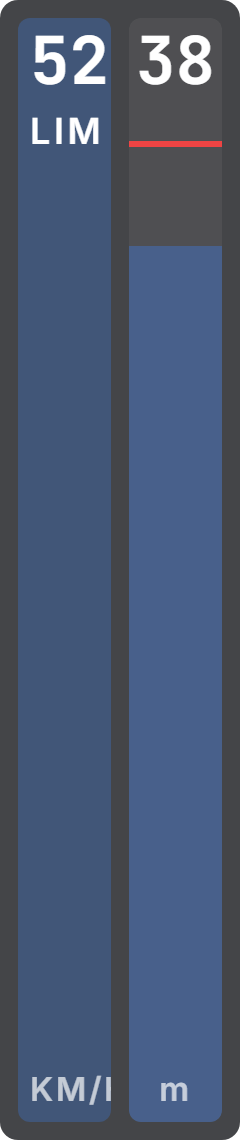
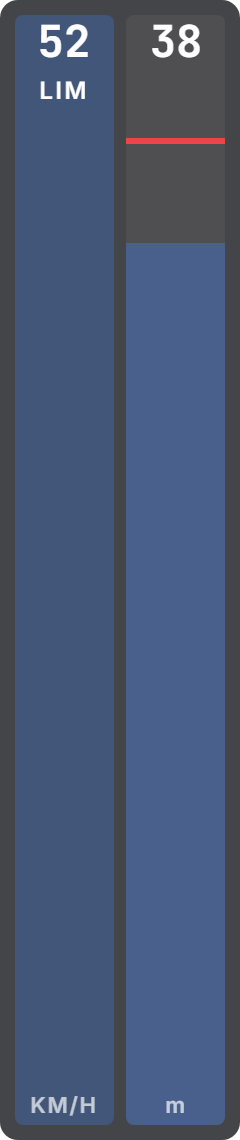
fix(site): pit-line stories pass the widget scale so text fits the columns

diff --git a/src/widgets/pit-line/PitLineWidget.stories.tsx b/src/widgets/pit-line/PitLineWidget.stories.tsx
@@ -7,6 +7,7 @@ import {
   SAMPLE_PIT_IN_PCT,
 } from '@features/preview/sample-track';
 import { PitLineWidget } from './PitLineWidget';
+import { PIT_LINE_MANIFEST } from './manifest';
 import {
   defineWidgetStories,
   previewScenario,
@@ -27,9 +28,19 @@ interface StoryArgs {
   leavingBox?: boolean;
 }
 
-// The limit plate hangs above the frame, as `overflowVisible` lets it in the
-// overlay.
-const WIDGET_SIZE = { width: 80, height: 380, overflow: 'visible' };
+const { currentWidth: SHIPPED_WIDTH, currentHeight: SHIPPED_HEIGHT } =
+  PIT_LINE_MANIFEST.userSettings;
+
+// The shipped size, scaled the way the overlay scales it: the frame is
+// narrower than the design width, and without `--wfs` the numbers keep their
+// design size and run out of the columns. The limit plate hangs above the
+// frame, as `overflowVisible` lets it in the overlay.
+const WIDGET_SIZE = {
+  width: SHIPPED_WIDTH,
+  height: SHIPPED_HEIGHT,
+  overflow: 'visible',
+  scale: SHIPPED_WIDTH / PIT_LINE_MANIFEST.designWidth,
+};
 
 // The sample track's pit lane wraps the start/finish line, so the span and the
 // stall's place in it are measured the long way round.
